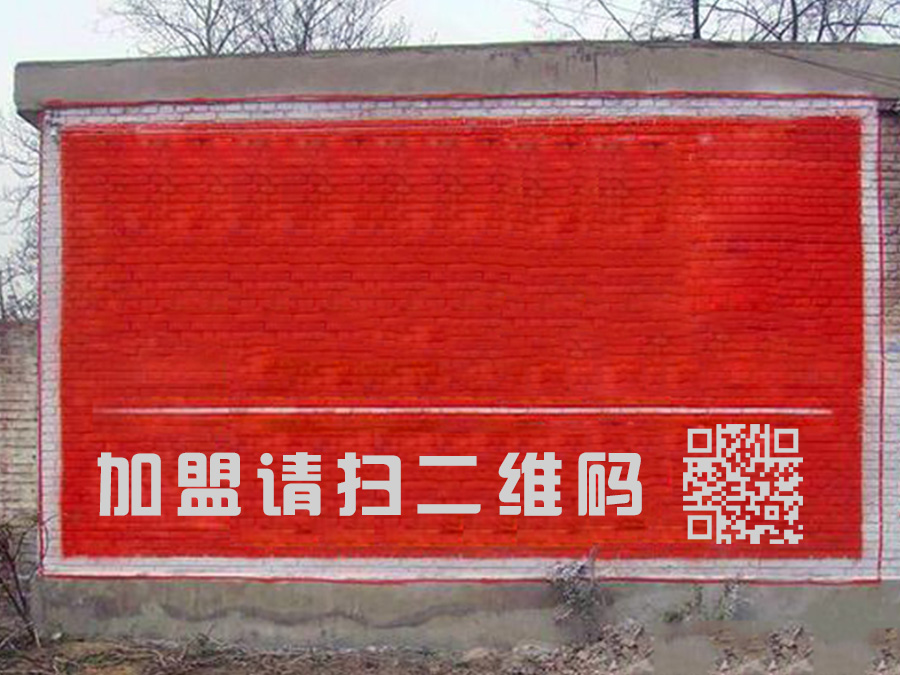
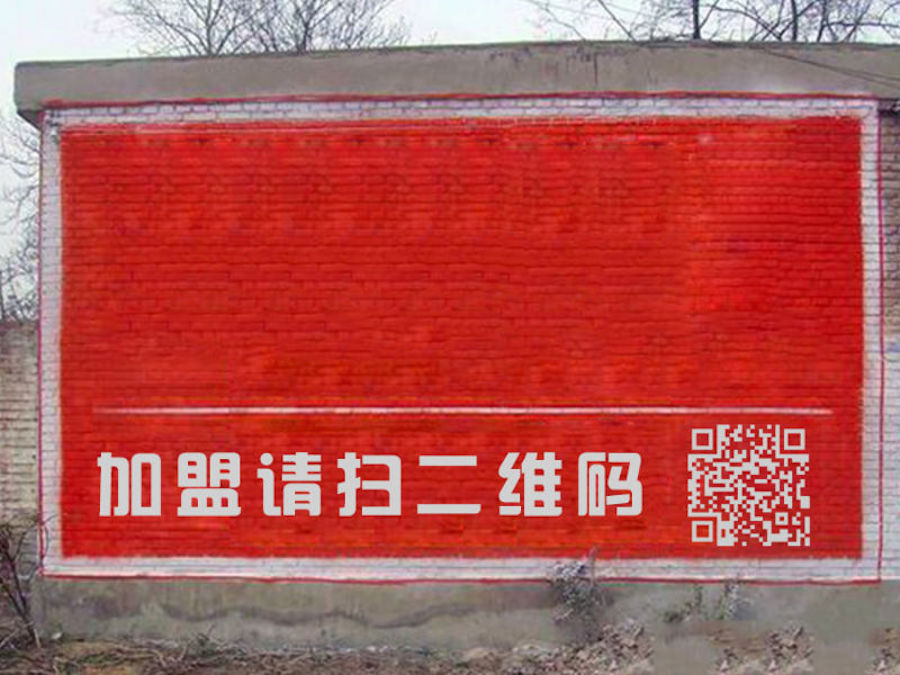
农村广告墙真背景

diff --git a/funny/Apps/Home/Controller/LuxurycarController.class.php b/funny/Apps/Home/Controller/LuxurycarController.class.php
@@ -34,9 +34,9 @@ class LuxurycarController extends Controller {
 				'red' => 55, // 文字颜色
 				'grn' => 55,
 				'blu' => 55,
-				'bg_red' => 198, // 背景颜色
-				'bg_grn' => 200,
-				'bg_blu' => 196,
+				'bg_red' => 213, // 背景颜色
+				'bg_grn' => 212,
+				'bg_blu' => 209,
 				'x' => 0,
 				'y' => 30,
 				'rot' => 3,
